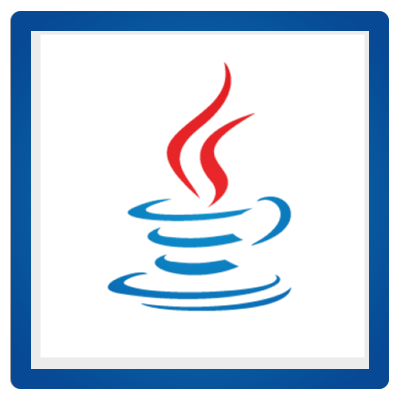
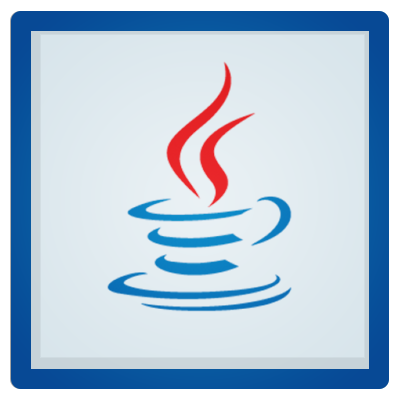
Updated Card Sort

diff --git a/card-sort4.html b/card-sort4.html
@@ -132,18 +132,18 @@
                               <div class="panel-body">
                                 <div class="panel panel-default  text-center clickable sm-card" data-toggle="modal" data-target="#myModal">
                                   <div class="panel-heading python">
-                                        <div class="col-sm-12 inner-card-sm">
-                                          <img class="tech-icon-sm img-thumbnail" src="images/tech/python.png"/>
+                                        <div class="">
+                                          <img class="tech-icon-sm" src="images/tech/python.png"/>
                                           <h1 class="sm-card-heading">Python Fundamentals</h1>
                                         </div>
                                   </div>
                                 </div>
                                 <div class="panel panel-default  text-center clickable sm-card" data-toggle="modal" data-target="#myModal">
                                   <div class="panel-heading python">
-                                        <div class="col-sm-12 inner-card-sm">
-                                        <img class="tech-icon-sm img-thumbnail" src="images/tech/python.png"/>
-                                        <h1 class="sm-card-heading">High Performance Python</h1>
-                                      </div>
+                                        <div class="">
+                                          <img class="tech-icon-sm" src="images/tech/python.png"/>
+                                          <h1 class="sm-card-heading">High Performance Python</h1>
+                                        </div>
                                   </div>
                                 </div>
                               </div>
@@ -153,7 +153,7 @@
                             <div class="panel panel-default mb20">
                               <div class="panel-heading django clickable" data-toggle="collapse" href="#showCard" data-parent="#accordion">
                                     <span class="mb0 card-count pull-right"><i class="fa fa-file-text"></i> 5/5</span>
-                                    <img class="tech-icon img-thumbnail" src="images/tech/django.png"/> 
+                                    <img class="tech-icon" src="images/tech/django.png"/> 
                                     <h1 class="card-heading">Production Ready Django </h1>                                
                               </div>
                               <div class="panel-body django left-skillcard">

diff --git a/card-sort5.html b/card-sort5.html
@@ -132,24 +132,24 @@
                               <div class="panel-body">
                                 <div class="panel panel-default  text-center clickable sm-card" data-toggle="modal" data-target="#myModal">
                                   <div class="panel-heading python">
-                                        <div class="col-sm-12 inner-card-sm">
-                                          <img class="tech-icon-sm img-thumbnail" src="images/tech/python.png"/>
+                                        <div class="">
+                                          <img class="tech-icon-sm" src="images/tech/python.png"/>
                                           <h1 class="sm-card-heading">Python Fundamentals</h1>
                                         </div>
                                   </div>
                                 </div>
                                 <div class="panel panel-default  text-center clickable sm-card" data-toggle="modal" data-target="#myModal">
                                   <div class="panel-heading python">
-                                        <div class="col-sm-12 inner-card-sm">
-                                          <img class="tech-icon-sm img-thumbnail" src="images/tech/python.png"/>
+                                        <div class="">
+                                          <img class="tech-icon-sm" src="images/tech/python.png"/>
                                           <h1 class="sm-card-heading">High Performance Python</h1>
                                         </div>
                                   </div>
                                 </div>
                                 <div class="panel panel-default  text-center clickable sm-card" data-toggle="modal" data-target="#myModal">
                                   <div class="panel-heading django">
-                                        <div class="col-sm-12 inner-card-sm">
-                                          <img class="tech-icon-sm img-thumbnail" src="images/tech/django.png"/>
+                                        <div class="">
+                                          <img class="tech-icon-sm" src="images/tech/django.png"/>
                                           <h1 class="sm-card-heading">Production Ready Django</h1>
                                         </div>
                                   </div>

diff --git a/card-sort3.html b/card-sort3.html
@@ -132,16 +132,16 @@
                               <div class="panel-body">
                                 <div class="panel panel-default  text-center clickable sm-card" data-toggle="modal" data-target="#myModal">
                                   <div class="panel-heading python">
-                                        <div class="col-sm-12 inner-card-sm">
-                                          <img class="tech-icon-sm img-thumbnail" src="images/tech/python.png"/>
+                                        <div class="">
+                                          <img class="tech-icon-sm" src="images/tech/python.png"/>
                                           <h1 class="sm-card-heading">Python Fundamentals</h1>
                                         </div>
                                   </div>
                                 </div>
                                 <div class="panel panel-default  text-center clickable sm-card" data-toggle="modal" data-target="#myModal">
                                   <div class="panel-heading python">
-                                        <div class="col-sm-12 inner-card-sm">
-                                          <img class="tech-icon-sm img-thumbnail" src="images/tech/python.png"/>
+                                        <div class="">
+                                          <img class="tech-icon-sm" src="images/tech/python.png"/>
                                           <h1 class="sm-card-heading">High Performance Python</h1>
                                         </div>
                                   </div>
@@ -153,7 +153,7 @@
                             <div class="panel panel-default mb20">
                               <div class="panel-heading django clickable" data-toggle="collapse" href="#showCard" data-parent="#accordion">
                                     <span class="mb0 card-count pull-right"><i class="fa fa-file-text"></i> 4/5</span>
-                                    <img class="tech-icon img-thumbnail" src="images/tech/django.png"/> 
+                                    <img class="tech-icon" src="images/tech/django.png"/> 
                                     <h1 class="card-heading">Django Up to Speed </h1>                                
                               </div>
                               <div class="panel-body django left-skillcard">

diff --git a/card-sort2.html b/card-sort2.html
@@ -132,8 +132,8 @@
                               <div class="panel-body">
                                 <div class="panel panel-default  text-center clickable sm-card" data-toggle="modal" data-target="#myModal">
                                   <div class="panel-heading python">
-                                        <div class="col-sm-12 inner-card-sm">
-                                          <img class="tech-icon-sm img-thumbnail" src="images/tech/python.png"/>
+                                        <div class="">
+                                          <img class="tech-icon-sm" src="images/tech/python.png"/>
                                           <h1 class="sm-card-heading">Python Fundamentals</h1>
                                         </div>
                                   </div>
@@ -145,7 +145,7 @@
                             <div class="panel panel-default mb20">
                               <div class="panel-heading python clickable" data-toggle="collapse" href="#showCard" data-parent="#accordion">
                                     <span class="mb0 card-count pull-right"><i class="fa fa-file-text"></i> 3/5</span>
-                                    <img class="tech-icon img-thumbnail" src="images/tech/python.png"/> 
+                                    <img class="tech-icon" src="images/tech/python.png"/> 
                                     <h1 class="card-heading">High Performance Python </h1>                                
                               </div>
                               <div class="panel-body python left-skillcard">

diff --git a/card-sort1.html b/card-sort1.html
@@ -132,8 +132,8 @@
                               <div class="panel-body">
                                 <div class="panel panel-default  text-center clickable sm-card" data-toggle="modal" data-target="#myModal">
                                 <div class="panel-heading python">
-                                      <div class="col-sm-12 inner-card-sm">
-                                        <img class="tech-icon-sm img-thumbnail" src="images/tech/python.png"/>
+                                      <div class="">
+                                        <img class="tech-icon-sm" src="images/tech/python.png"/>
                                         <h1 class="sm-card-heading">Python Fundamentals</h1>
                                       </div>
                                 </div>
@@ -145,7 +145,7 @@
                             <div class="panel panel-default mb20">
                               <div class="panel-heading python clickable" data-toggle="collapse" href="#showCard" data-parent="#accordion">
                                     <span class="mb0 card-count pull-right"><i class="fa fa-file-text"></i> 2/5</span>
-                                    <img class="tech-icon img-thumbnail" src="images/tech/python.png"/> 
+                                    <img class="tech-icon" src="images/tech/python.png"/> 
                                     <h1 class="card-heading">Unlocking python objects </h1>                                
                               </div>
                               <div class="panel-body python left-skillcard">

diff --git a/card-sort.html b/card-sort.html
@@ -146,7 +146,7 @@
                             <div class="panel panel-default mb20">
                               <div class="panel-heading python clickable" data-toggle="collapse" href="#showCard" data-parent="#accordion">
                                     <span class="mb0 card-count pull-right"><i class="fa fa-file-text"></i> 1/5</span>
-                                    <img class="tech-icon img-thumbnail" src="images/tech/python.png"/> 
+                                    <img class="tech-icon" src="images/tech/python.png"/> 
                                     <h1 class="card-heading">Python Fundamentals </h1>                                
                               </div>
                               <div class="panel-body python left-skillcard">

diff --git a/dashboard-profile.html b/dashboard-profile.html
@@ -50,7 +50,7 @@
     <div class="modal-content">
       <div class="modal-header django">
         <button type="button" class="close" data-dismiss="modal" aria-label="Close"><span aria-hidden="true">&times;</span></button>
-        <img class="tech-icon img-thumbnail" src="images/tech/django.png"/> 
+        <img class="tech-icon" src="images/tech/django.png"/> 
                                     <h1 class="card-heading">Django Up to Speed </h1>
       </div>
       <div class="modal-body django">

diff --git a/select-skills.html b/select-skills.html
@@ -49,7 +49,7 @@
     <div class="modal-content">
       <div class="modal-header python">
         <button type="button" class="close" data-dismiss="modal" aria-label="Close"><span aria-hidden="true">×</span></button>
-        <img class="tech-icon img-thumbnail" src="images/tech/python.png"> 
+        <img class="tech-icon" src="images/tech/python.png"> 
                                     <h1 class="card-heading">Python Fundamentals </h1>
       </div>
       <div class="modal-body python">
